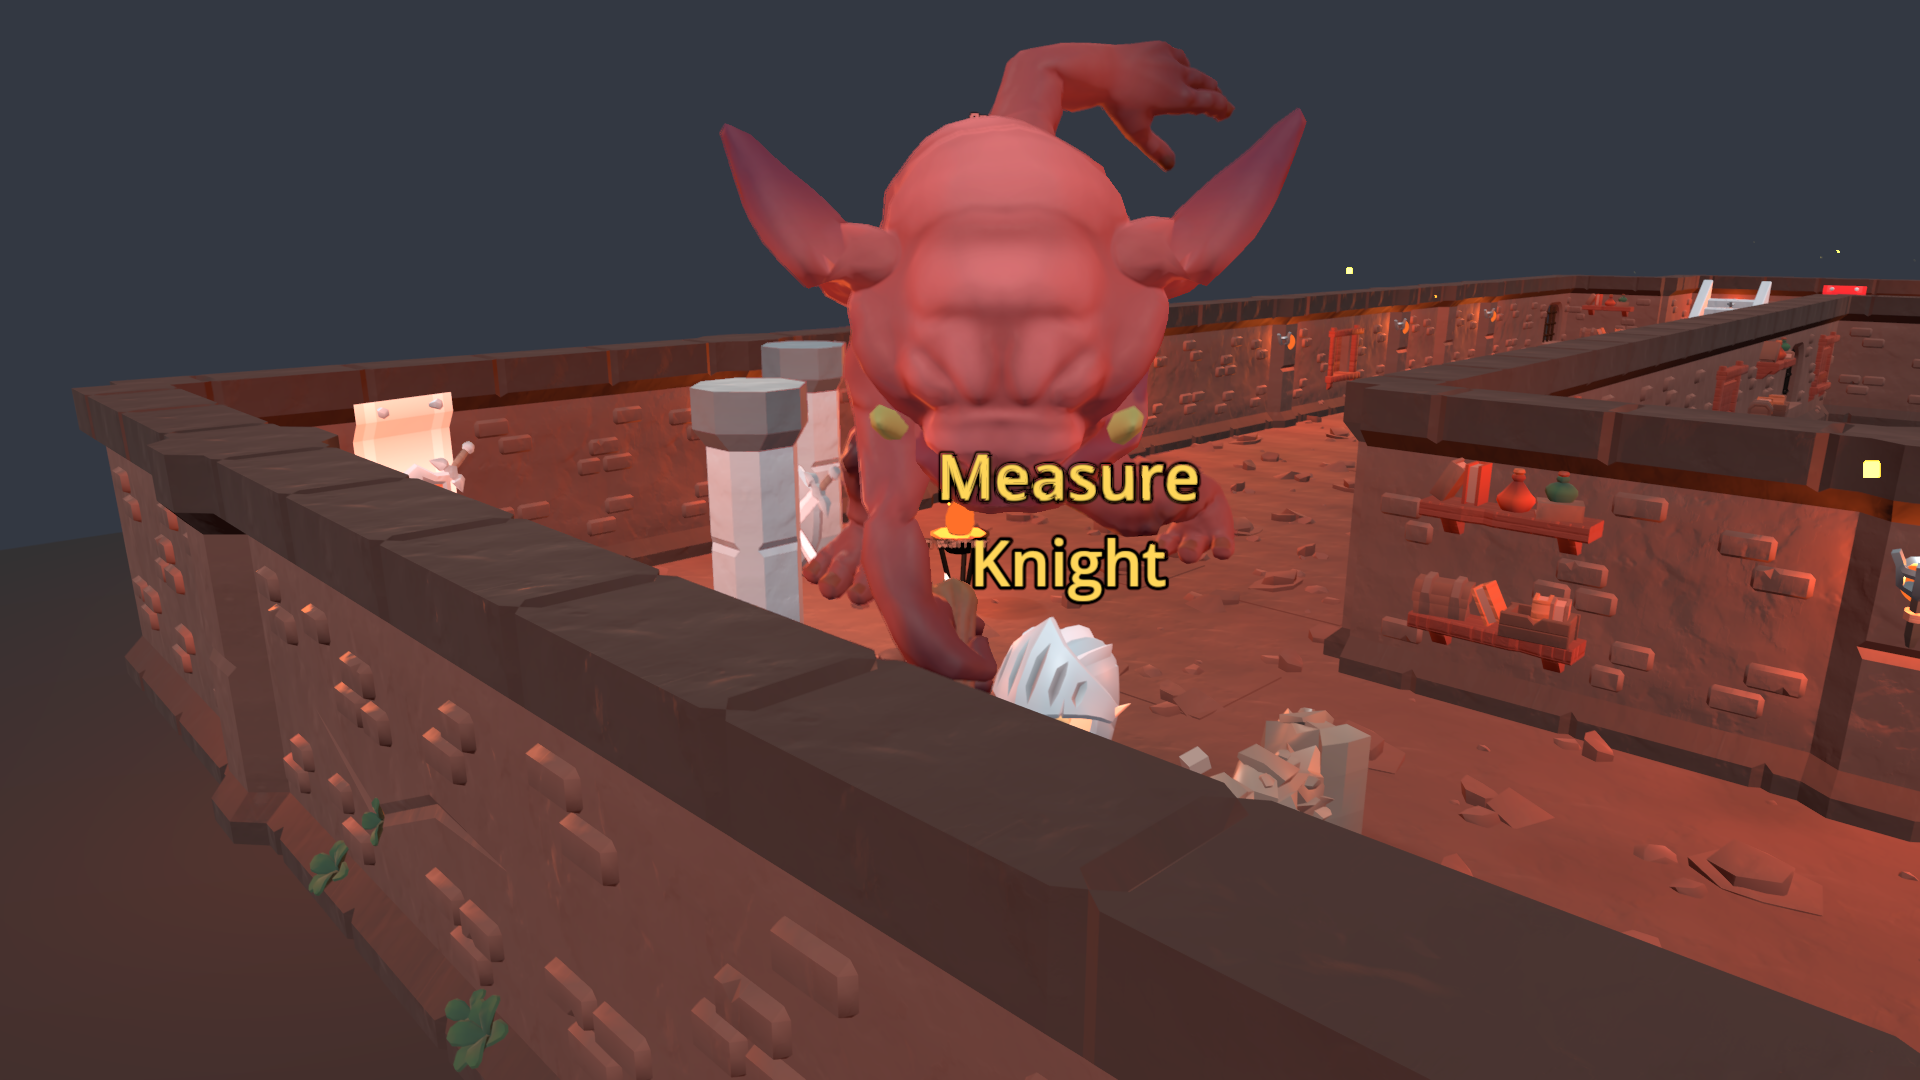
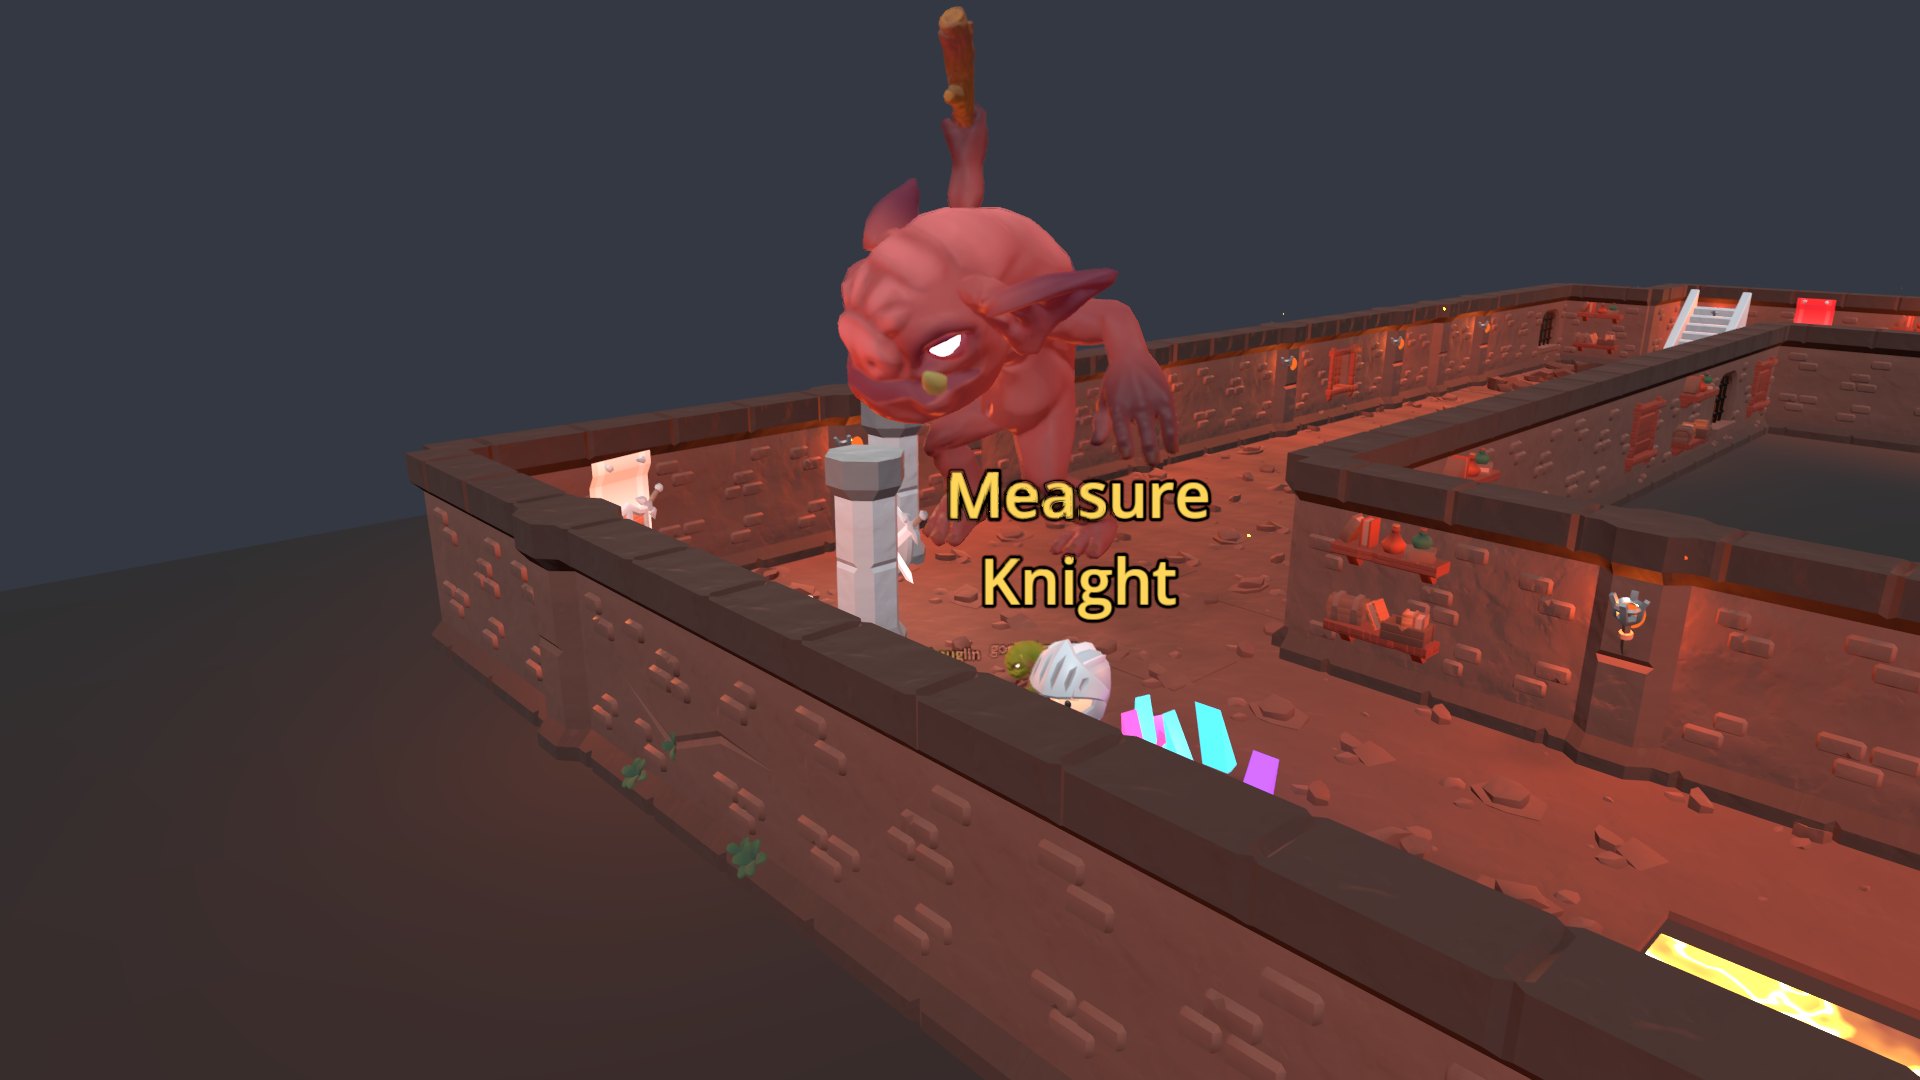
S55: Broodglut gate camera frames the whole 6.60 m body; 8-corner AABB in-frame check, red-proved
Aim off the measured height (mh*0.5 over the body's AABB centre) and stand the camera back
by max(1, mh/4.4). S55_RED=1 restores the old pivot+2.6 aim -> FAIL; green S54_BROOD OK n=11.
Battery: OFFFLOOR OK 0/2049, TWITCH_PARSE OK 8, TOWNWALK PASS, DELVE_TEST OK.

diff --git a/PROGRESS.md b/PROGRESS.md
@@ -12341,3 +12341,14 @@ Result windowed 100/125/150: "U85 panels=15 feed_chronicle=3 bad=0" THEME_SWEEP 
 Red proof: arg break_shift -> bad=4 THEME_SWEEP FAIL, and the shifted set includes the FeedHUD Chronicle (@CanvasLayer@42 at x=5350). Logs _u94_*.log untracked.
 Observation, NOT a failure (sweep only prints it): OVERLAP at 100/125/150 between the Chronicle (~350,220 452x169) and Spotlight (0,0 576x304) in the 1152x648 test window. Spotlight is idle in the sweep so this is its default rect, not a visible clash; I did not look at a picture of it this cycle. Worth a look next firing with Spotlight actually showing.
 Next: L74 feed-under-load readability picture, or the Spotlight/Chronicle rect question above. Nothing for Mr. E to decide.
+
+## S55 (20 Nov 02:2x CST) - the Broodglut gate's camera now frames the whole 6.60 m body, and the gate proves it instead of a picture having to
+Item: TAKE THIS NEXT (01:58) row 1 GAME BUILD: tools/_s54_broodglut.gd:74 aimed at a literal +2.6 written for the 2.60 m body; the pack shot cut the head off. Instrument-only change; bestiary.gd broodglut h (6.60) and floorgen's lid UNTOUCHED (both with the supervisor).
+CHANGE (tools/_s54_broodglut.gd only): initial aim = def h * 0.5; at frame 40 the camera is re-aimed off the MEASURED height (mh * 0.5, over the body's own AABB centre in x/z - it leans) and stood back by k = max(1, mh/4.4) along the old (9,6,9) offset, which had been framing a 4.4 m body. NEW CHECK (11 now): every one of the 8 corners of the body's world AABB must unproject inside the viewport and not behind the camera.
+MY FIRST CHECK WAS WEAK AND I SAY SO: a pivot-column check (feet + pivot+h) PASSED the old 2.6 aim, because the body leans forward and its head is not above its feet. Replaced it with the 8-corner AABB check before trusting it.
+  RED: S55_RED=1 restores the old camera (pivot+(9,6,9), aim pivot+2.6) -> "off frame: corner 5 ... -> (1162.8, 1120.6)" -> S54_BROOD FAIL ["whole body in frame, head and feet both on screen"]. Note the corner it caught is a near-bottom one (y 1120 > 1080), not the crown - the old framing clipped the body at both ends.
+  GREEN (run LAST, so the committed shots are the green run's): "in frame: all 8 AABB corners on screen, top y 6.57" -> S54_BROOD OK n=11. Measured broodglut 6.60 m, knight 2.54 m.
+LOOKED AT renders/cycles/s54/s54_broodglut_pack.png: the whole creature stands in frame with sky above its ears, head to hands over the far wall, the knight's helm and a puglin nameplate at its feet behind the near wall. The fit/look test can now be run off it.
+Side note, not a defect I am charging: the knight measures 2.19 / 2.54 / 2.70 m across runs (anim pose at frame 40); the towers check (>= 2x) holds at every one.
+BATTERY: parse rc=0 no SCRIPT ERROR; OFFFLOOR_VERDICT OK 0 of 2049; TWITCH_PARSE OK (8 checks); TOWNWALK in_solid=0/18639 PASS; DELVE_TEST OK ran 9001 frames, 0 SCRIPT ERROR.
+No twitch, 0 bits, nothing posted.
